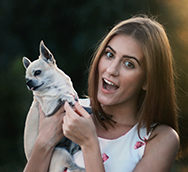
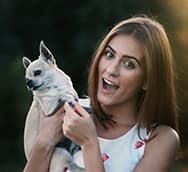
4

diff --git a/index.html b/index.html
@@ -138,7 +138,15 @@
                 </div>
                 <div class="col-md-6">
                   <div class="slider_img-box">
-                    <img src="images/slider-img.png" alt="">
+                    <!-- 4.2 -->
+                    <!-- <img src="images/slider-img.png" alt=""> -->
+                    <picture>
+                      <source srcset="images/slider-img.webp" type="image/webp">
+                      <source srcset="images/slider-img.png" type="image/png"> <!-- 備用格式 -->
+                      <img src="images/slider-img.png" alt="Slider Image">
+                    </picture>
+
+                    <!-- 4.2 -->
                   </div>
                 </div>
               </div>
@@ -172,7 +180,15 @@
                 </div>
                 <div class="col-md-6">
                   <div class="slider_img-box">
-                    <img src="images/slider-img.png" alt="">
+                    <!-- 4.2 -->
+                    <!-- <img src="images/slider-img.png" alt=""> -->
+                    <picture>
+                      <source srcset="images/slider-img.webp" type="image/webp">
+                      <source srcset="images/slider-img.png" type="image/png"> <!-- 備用格式 -->
+                      <img src="images/slider-img.png" alt="Slider Image">
+                    </picture>
+
+                    <!-- 4.2 -->
                   </div>
                 </div>
               </div>
@@ -206,7 +222,15 @@
                 </div>
                 <div class="col-md-6">
                   <div class="slider_img-box">
-                    <img src="images/slider-img.png" alt="">
+                    <!-- 4.2 -->
+                    <!-- <img src="images/slider-img.png" alt=""> -->
+                    <picture>
+                      <source srcset="images/slider-img.webp" type="image/webp">
+                      <source srcset="images/slider-img.png" type="image/png"> <!-- 備用格式 -->
+                      <img src="images/slider-img.png" alt="Slider Image">
+                    </picture>
+
+                    <!-- 4.2 -->
                   </div>
                 </div>
               </div>
@@ -240,7 +264,15 @@
                 </div>
                 <div class="col-md-6">
                   <div class="slider_img-box">
-                    <img src="images/slider-img.png" alt="">
+                    <!-- 4.2 -->
+                    <!-- <img src="images/slider-img.png" alt=""> -->
+                    <picture>
+                      <source srcset="images/slider-img.webp" type="image/webp">
+                      <source srcset="images/slider-img.png" type="image/png"> <!-- 備用格式 -->
+                      <img src="images/slider-img.png" alt="Slider Image">
+                    </picture>
+
+                    <!-- 4.2 -->
                   </div>
                 </div>
               </div>
@@ -260,7 +292,16 @@
       <div class="row">
         <div class="col-md-6">
           <div class="img-box">
-            <img src="images/about.png" alt="">
+            <!-- 4.-1 -->
+            <!-- <img src="images/about.png" alt=""> -->
+
+            <picture>
+              <source srcset="images/about.webp" type="image/webp">
+              <source srcset="images/about.png" type="image/png"> <!-- 備用格式 -->
+              <img src="images/about.png" alt="About Us">
+            </picture>
+
+            <!-- 4.-1 -->
           </div>
         </div>
         <div class="col-md-6">
@@ -348,7 +389,15 @@
           </div>
         </div>
         <div class="col-md-4">
-          <img src="images/tool.png" alt="" class="w-100">
+          <!-- 4.5 -->
+          <!-- <img src="images/tool.png" alt="" class="w-100"> -->
+
+          <picture>
+            <source srcset="images/tool.webp" type="image/webp">
+            <source srcset="images/tool.png" type="image/png"> <!-- 備用格式 -->
+            <img src="images/tool.png" alt="Tool Image" class="w-100">
+          </picture>
+          <!-- 4.5 -->
         </div>
       </div>
     </div>
@@ -367,19 +416,58 @@
     </div>
     <div class="container ">
       <div class="img_box box-1">
-        <img src="images/g-1.png" alt="">
+        <!-- 4.4 -->
+        <!-- <img src="images/g-1.png" alt=""> -->
+
+        <picture>
+          <source srcset="images/g-1.jpg" type="image/jpeg">
+          <source srcset="images/g-1.png" type="image/png"> <!-- 備用格式 -->
+          <img src="images/g-1.jpg" alt="Gallery Image">
+        </picture>
+        <!-- 4.4 -->
       </div>
       <div class="img_box box-2">
-        <img src="images/g-2.png" alt="">
+        <!-- 4.3 -->
+        <!-- <img src="images/g-2.png" alt=""> -->
+
+        <picture>
+          <source srcset="images/g-2.jpg" type="image/jpeg">
+          <source srcset="images/g-2.png" type="image/png"> <!-- 備用格式 -->
+          <img src="images/g-2.jpg" alt="Gallery Image">
+        </picture>
+        <!-- 4.3 -->
       </div>
       <div class="img_box box-3">
-        <img src="images/g-3.png" alt="">
+        <!-- 4.6 -->
+        <!-- <img src="images/g-3.png" alt=""> -->
+
+        <picture>
+          <source srcset="images/g-3.jpg" type="image/jpeg">
+          <source srcset="images/g-3.png" type="image/png"> <!-- 備用格式 -->
+          <img src="images/g-3.jpg" alt="Gallery Image">
+        </picture>
+         <!-- 4.6 -->
       </div>
       <div class="img_box box-4">
-        <img src="images/g-4.png" alt="">
+        <!-- 4.8 -->
+        <!-- <img src="images/g-4.png" alt=""> -->
+        <picture>
+          <source srcset="images/g-4.jpg" type="image/jpeg">
+          <source srcset="images/g-4.png" type="image/png"> <!-- 備用格式 -->
+          <img src="images/g-4.jpg" alt="Gallery Image">
+        </picture>
+        <!-- 4.8 -->
       </div>
       <div class="img_box box-5">
-        <img src="images/g-5.png" alt="">
+        <!-- 4.10 -->
+        <!-- <img src="images/g-5.png" alt=""> -->
+
+        <picture>
+          <source srcset="images/g-5.jpg" type="image/jpeg">
+          <source srcset="images/g-5.png" type="image/png"> <!-- 備用格式 -->
+          <img src="images/g-5.jpg" alt="Gallery Image">
+        </picture>
+        <!-- 4.10 -->
       </div>
     </div>
   </section>
